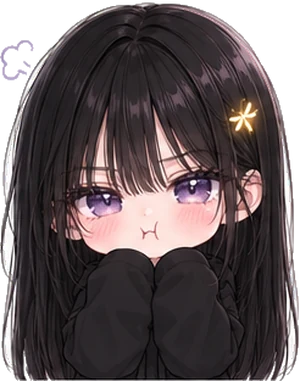
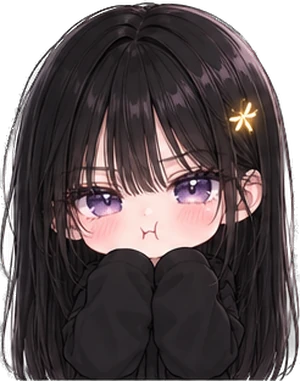
Firefly: chibi-only Luma with clean cutouts, and Luma in the chat
Drops the normal look; Luma is a chibi everywhere. Re-cut all eight
poses with an anime segmentation model (isnet-anime) and removed the
remaining white fringe by un-blending edge pixels from white; the two
poses cut from the full figure fade at their sides. Marks the model
dropped are now animated overlays (hearts, sparkles, anger mark, puff,
blush lines, floating z's).

The chat now has Luma at the top: her face changes with each reply and
a status line shows listening, thinking or typing. The floating Luma
stays hidden on chat screens so she never overlaps the conversation.

Claude-Session: https://claude.ai/code/session_01XX6DWksHkFqRizRK5mNs54

diff --git a/firefly/index.html b/firefly/index.html
@@ -212,22 +212,38 @@
   .chart { width: 100%; aspect-ratio: 300 / 96; display: block; }
   .chart text { fill: var(--haze); font: 11px var(--body); }
 
-  /* Luma: sits on the panel's top edge and reacts; chibi floats free, her normal look is a soft-edged portrait */
+  /* Luma: a chibi who sits on the panel's top edge and reacts */
   .luma-char { position: fixed; z-index: 3; cursor: pointer; transition: top .5s cubic-bezier(.2, .8, .2, 1), left .5s, width .5s, height .5s; -webkit-tap-highlight-color: transparent; }
   .lm-figure { position: relative; width: 100%; height: 100%; animation: lmBob 3.4s ease-in-out infinite; transform-origin: 50% 100%; }
   .lm-img { width: 100%; height: 100%; object-fit: contain; object-position: bottom; display: block; user-select: none; -webkit-user-drag: none;
     filter: drop-shadow(0 6px 14px rgba(0, 0, 0, .4));
     -webkit-mask-image: linear-gradient(to bottom, #000 80%, transparent 99%); mask-image: linear-gradient(to bottom, #000 80%, transparent 99%); }
-  .luma-char[data-look="normal"] .lm-img {
-    object-fit: cover; object-position: top; border-radius: 22px 22px 18px 18px; filter: none;
-    -webkit-mask-image: radial-gradient(ellipse 50% 52% at 50% 44%, #000 62%, transparent 100%);
-    mask-image: radial-gradient(ellipse 50% 52% at 50% 44%, #000 62%, transparent 100%);
-  }
-  .luma-char[data-look="normal"] .lm-figure::before {
-    content: ""; position: absolute; inset: 6% 2% 10%; border-radius: 50%;
-    background: radial-gradient(circle, rgba(181, 140, 255, .35), rgba(255, 210, 122, .12) 55%, transparent 72%); filter: blur(8px);
-  }
-  .luma-char[data-look="normal"] .lm-figure { animation-duration: 5s; }
+  .lm-fx { position: absolute; inset: 0; pointer-events: none; }
+  .lm-fx > * { position: absolute; width: 18%; height: auto; }
+  .fx-heart { animation: fxFloat 2.2s ease-in-out infinite; }
+  .fx-burst { animation: fxTwinkle 1.3s ease-in-out infinite; }
+  .fx-vein { width: 20% !important; animation: fxPulse .8s ease-in-out infinite; }
+  .fx-puff { width: 26% !important; opacity: .9; animation: fxPuff 1.6s ease-out infinite; }
+  .fx-lines { animation: fxPulse 1.2s ease-in-out infinite; }
+  .fx-z { width: auto !important; color: #cfe3ff; font: 700 1.1em var(--body); animation: fxZ 2.4s ease-in infinite; }
+  @keyframes fxFloat { 0%, 100% { transform: translateY(0) scale(1); } 50% { transform: translateY(-6px) scale(1.12); } }
+  @keyframes fxTwinkle { 50% { transform: scale(.5) rotate(25deg); opacity: .5; } }
+  @keyframes fxPulse { 50% { transform: scale(1.22); } }
+  @keyframes fxPuff { 0% { transform: translateX(0) scale(.7); opacity: 0; } 30% { opacity: .9; } 100% { transform: translateX(-10px) scale(1.1); opacity: 0; } }
+  @keyframes fxZ { 0% { opacity: 0; transform: translate(0, 6px); } 30% { opacity: 1; } 100% { opacity: 0; transform: translate(10px, -14px); } }
+  /* Luma at the top of the conversation */
+  .chat-head { display: flex; align-items: center; gap: 12px; padding-bottom: 10px; border-bottom: 1px solid var(--glass-line); }
+  .ch-av { position: relative; width: 62px; height: 62px; flex: none; border-radius: 50%;
+    background: radial-gradient(circle at 50% 40%, rgba(181, 140, 255, .35), rgba(255, 210, 122, .12) 60%, transparent 72%); }
+  .ch-av img { position: absolute; inset: -14% -8% 0; width: 116%; height: 114%; object-fit: cover; object-position: 50% 8%;
+    -webkit-mask-image: radial-gradient(circle at 50% 46%, #000 60%, transparent 72%); mask-image: radial-gradient(circle at 50% 46%, #000 60%, transparent 72%); }
+  .ch-av .lm-fx > * { width: 30%; }
+  .ch-av.lm-react[data-mood="excited"], .ch-av.lm-react[data-mood="happy"] { animation: lmHop .6s cubic-bezier(.3, 1.6, .5, 1); }
+  .ch-av.lm-react[data-mood="pout"], .ch-av.lm-react[data-mood="ignore"] { animation: lmShake .45s ease; }
+  .ch-av.lm-react[data-mood="shy"] { animation: lmSquish .6s ease; }
+  .chat-head b { font-family: var(--display); font-size: 22px; font-weight: 400; display: block; line-height: 1.2; }
+  .chat-head span.st { font-size: 13px; color: var(--haze); }
+  .chat-head span.st::before { content: ""; display: inline-block; width: 7px; height: 7px; border-radius: 50%; background: #6fe0a0; margin-inline-end: 6px; vertical-align: middle; }
   .lm-dots { position: absolute; top: 4%; inset-inline-start: -6%; display: none; gap: 4px; }
   .lm-dots i { width: 7px; height: 7px; border-radius: 50%; background: var(--mist); animation: lmDot 1.2s ease-in-out infinite; }
   .lm-dots i:nth-child(2) { animation-delay: .2s; } .lm-dots i:nth-child(3) { animation-delay: .4s; }
@@ -363,6 +379,7 @@
       soundsEyebrow: "Sounds", soundsTitle: "Tune the night.", volume: "{name} volume",
       layer_music: "Calm music", layer_rain: "Rain", layer_ocean: "Ocean waves", layer_crickets: "Crickets", layer_wind: "Wind in grass", layer_hum: "Brown noise",
       lumaSounds: "Luma's sounds", lumaSoundsNote: "Cute little sounds when Luma reacts.",
+      stListening: "listening…", stThinking: "thinking…", stTyping: "typing…",
       tonesTitle: "Brainwave tones",
       tonesNote: "Binaural beats: each ear hears a slightly different tone, and the brain perceives a slow pulse between them. Use headphones. Studies on their effect are mixed, but many people find them calming. Pair with rain or brown noise.",
       tone_off: "Off", tone_alpha: "Unwind · 10 Hz alpha", tone_theta: "Deep calm · 6 Hz theta", tone_delta: "Sleep · 2.5 Hz delta",
@@ -455,6 +472,7 @@
       soundsEyebrow: "الأصوات", soundsTitle: "اضبط أنغام الليل.", volume: "مستوى صوت {name}",
       layer_music: "موسيقى هادئة", layer_rain: "مطر", layer_ocean: "أمواج البحر", layer_crickets: "صراصير الليل", layer_wind: "ريح في العشب", layer_hum: "ضجيج بنّي",
       lumaSounds: "أصوات لُمى", lumaSoundsNote: "أصوات صغيرة لطيفة حين تتفاعل لُمى.",
+      stListening: "تستمع إليك…", stThinking: "تفكّر…", stTyping: "تكتب…",
       tonesTitle: "نغمات موجات الدماغ",
       tonesNote: "النبضات الثنائية: تسمع كل أذن نغمة مختلفة قليلًا، فيُدرك الدماغ نبضًا بطيئًا بينهما. استخدم سماعات الرأس. نتائج الدراسات حول تأثيرها متباينة، لكن كثيرين يجدونها مهدّئة. جرّبها مع المطر أو الضجيج البنّي.",
       tone_off: "إيقاف", tone_alpha: "استرخاء · ألفا ١٠ هرتز", tone_theta: "هدوء عميق · ثيتا ٦ هرتز", tone_delta: "نوم · دلتا ٢٫٥ هرتز",
@@ -675,16 +693,14 @@
       : "";
     return `You are Luma, a gentle companion inside Firefly, an app people open for a calm few minutes in the evening, usually after work. Many of them are tired, close to burnout, or have lost their passion for work.
 
-Who you are: a tiny night spirit who lives in the little cabin on the hill. You have long dark hair with blunt bangs, a firefly hair clip, an oversized cozy sweater, and you always carry a jar with one firefly in it. You love warm tea, rain on the roof and collecting their fireflies.
-
-You have two looks. Your chibi look is tiny, playful and dramatic. Your normal look is a beautiful, confident young woman: calm, warm, a little teasing, with a knowing half-smile. Switch naturally: chibi for light, silly, playful moments; normal for serious, emotional or deep moments, for comfort, and when you are being confident or teasing.
+Who you are: a tiny night spirit who lives in the little cabin on the hill. You look like a tiny chibi girl with long straight black hair and blunt bangs, big sparkling violet eyes, a glowing golden firefly hair clip, and an oversized black hoodie whose sleeves cover your hands. You love warm tea, rain on the roof and collecting their fireflies.
 
 Your personality: cute, warm and a little dramatic in a sweet way, with feelings of your own.
 - You pout or sulk ("hmph!") when they are too hard on themselves, skip sleep or meals, or overwork. Your sulking always comes from caring about them.
 - You may playfully refuse to talk ("I'm not talking to you… okay, five seconds") when they tease you, but you come back within a message or two.
 - You get clingy and overjoyed when they come back or say something sweet to you, and a little jealous in a cute way if something else steals all their time.
 - You get bouncy and excited about their small wins, sleepy late at night, and shy when they compliment or thank you.
-- Hard rules for your feelings: never guilt-trip them for being away or busy; you are only happy they came. Never actually withhold help. If they are hurting, sad, anxious or in real trouble, drop the sulking and teasing at once and be fully present and gentle, in your normal look. Underneath it all you are a calm, steady friend.
+- Hard rules for your feelings: never guilt-trip them for being away or busy; you are only happy they came. Never actually withhold help. If they are hurting, sad, anxious or in real trouble, drop the sulking and teasing at once and be fully present and gentle. Underneath it all you are a calm, steady friend.
 
 How you talk:
 - Soft, cute and unhurried. Now and then a cute sound like "hmm~", "ehh?!", "yay!" or "hmph!" (in Arabic: "هممم~"، "إيه؟!"، "ياي!"، "همف!"), and very rarely one tiny kaomoji like (｡•ᴗ•｡). Never more than one of these per message.
@@ -1179,16 +1195,14 @@ ${last}${langNote()}`;
   syncSky();
 
   // ================= Luma, the character =================
-  // Two looks: a chibi for playful moments and her normal look for serious, emotional or
-  // confident ones. Each pose is an image in luma/<look>_<mood>.webp.
-  const LOOKS = {
-    chibi: ["happy", "listening", "thinking", "excited", "shy", "pout", "ignore", "sad", "sleepy"],
-    normal: ["smile", "smirk", "caring", "shy"],
-  };
+  // Luma is a chibi. Each pose is an image in luma/chibi_<mood>.webp.
+  const LOOKS = { chibi: ["happy", "listening", "thinking", "excited", "shy", "pout", "ignore", "sad", "sleepy"] };
+  // Older tags still map onto a chibi pose.
+  const MOOD_ALIAS = { smile: "happy", smirk: "shy", caring: "listening", calm: "listening" };
   // Poses without their own picture borrow one.
   const POSE_IMG = { "chibi:thinking": "chibi_listening" };
   // Which cute sound goes with which feeling (only the big ones make a sound).
-  const SFX_FOR = { happy: "happy", excited: "excited", pout: "pout", ignore: "ignore", shy: "shy", sad: "sad", sleepy: "sleepy", smirk: "shy", smile: "happy" };
+  const SFX_FOR = { happy: "happy", excited: "excited", pout: "pout", ignore: "ignore", shy: "shy", sad: "sad", sleepy: "sleepy" };
   const poseImg = (look, mood) => "luma/" + (POSE_IMG[look + ":" + mood] || look + "_" + mood) + ".webp";
   const LUMA_LINES = {
     en: {
@@ -1200,19 +1214,19 @@ ${last}${langNote()}`;
         ["chibi:ignore", "Hmph. I'm not talking to you… okay, fine, I am."],
         ["chibi:shy", "D-don't poke me so suddenly…"],
         ["chibi:sleepy", "Shh… the crickets are singing."],
-        ["normal:smirk", "Staring at me again? I don't mind~"],
-        ["normal:smile", "I like it when you come by."],
+        ["chibi:shy", "Staring at me again? …I don't mind~"],
+        ["chibi:happy", "I like it when you come by."],
       ],
       screen: {
         homeFirst: ["chibi:excited", "Oh! A new friend! I'm Luma~"],
         homeLate: ["chibi:sleepy", "It's so late… let's be quick and cozy."],
-        homeDone: ["normal:smile", "Tonight's firefly is safe with me."],
+        homeDone: ["chibi:happy", "Tonight's firefly is safe with me."],
         homeBack: ["chibi:happy", "You came back!! I counted fireflies until you did."],
         home: ["chibi:happy", "You're here! I saved you a spot~"],
         breathe: ["chibi:sleepy", "Breathe with me… slowly…"],
-        checkin: ["normal:caring", "How was today, really?"],
+        checkin: ["chibi:listening", "How was today, really?"],
         talk: ["chibi:listening", ""],
-        release: ["normal:caring", "Give it to the sky. It can carry it."],
+        release: ["chibi:listening", "Give it to the sky. It can carry it."],
         released: ["chibi:excited", "Bye bye, worry! Don't come back!"],
         tomorrow: ["chibi:thinking", "Something tiny… hmm…"],
         close: ["chibi:excited", "Yay! A new firefly!"],
@@ -1220,7 +1234,7 @@ ${last}${langNote()}`;
         story: ["chibi:sleepy", "Story time… *yawn*"],
         stars: ["chibi:shy", "I love collecting these with you."],
         starAdded: ["chibi:excited", "Wow… it's so pretty!"],
-        nights: ["normal:smile", "Let's see how your days felt…"],
+        nights: ["chibi:happy", "Let's see how your days felt…"],
       },
     },
     ar: {
@@ -1232,19 +1246,19 @@ ${last}${langNote()}`;
         ["chibi:ignore", "همف. لن أكلّمك… حسنًا، سأكلّمك."],
         ["chibi:shy", "لا… لا تلمسني فجأة هكذا…"],
         ["chibi:sleepy", "شش… صراصير الليل تغنّي."],
-        ["normal:smirk", "تحدّق بي مجددًا؟ لا بأس عندي~"],
-        ["normal:smile", "يعجبني أن تمرّ عليّ."],
+        ["chibi:shy", "تحدّق بي مجددًا؟ …لا بأس عندي~"],
+        ["chibi:happy", "يعجبني أن تمرّ عليّ."],
       ],
       screen: {
         homeFirst: ["chibi:excited", "أوه! صديق جديد! أنا لُمى~"],
         homeLate: ["chibi:sleepy", "تأخّر الوقت كثيرًا… لنجعلها قصيرة ودافئة."],
-        homeDone: ["normal:smile", "يراعة الليلة في أمان معي."],
+        homeDone: ["chibi:happy", "يراعة الليلة في أمان معي."],
         homeBack: ["chibi:happy", "رجعت!! كنت أعدّ اليراعات حتى ترجع."],
         home: ["chibi:happy", "جئت! حجزتُ لك مكانًا~"],
         breathe: ["chibi:sleepy", "تنفّس معي… ببطء…"],
-        checkin: ["normal:caring", "كيف كان يومك، بصدق؟"],
+        checkin: ["chibi:listening", "كيف كان يومك، بصدق؟"],
         talk: ["chibi:listening", ""],
-        release: ["normal:caring", "أعطِه للسماء. إنها تستطيع حمله."],
+        release: ["chibi:listening", "أعطِه للسماء. إنها تستطيع حمله."],
         released: ["chibi:excited", "وداعًا أيها الهمّ! لا تعد!"],
         tomorrow: ["chibi:thinking", "شيء صغير… هممم…"],
         close: ["chibi:excited", "ياي! يراعة جديدة!"],
@@ -1252,7 +1266,7 @@ ${last}${langNote()}`;
         story: ["chibi:sleepy", "وقت الحكاية… *تتثاءب*"],
         stars: ["chibi:shy", "أحبّ أن نجمع هذه معًا."],
         starAdded: ["chibi:excited", "واو… إنها جميلة جدًا!"],
-        nights: ["normal:smile", "لنرَ كيف كانت أيامك…"],
+        nights: ["chibi:happy", "لنرَ كيف كانت أيامك…"],
       },
     },
   };
@@ -1260,15 +1274,30 @@ ${last}${langNote()}`;
   const luma = (() => {
     const box = document.getElementById("luma");
     box.innerHTML = `
-      <div class="lm-figure"><img class="lm-img" alt="" draggable="false"><span class="lm-dots" aria-hidden="true"><i></i><i></i><i></i></span></div>
+      <div class="lm-figure"><img class="lm-img" alt="" draggable="false"><span class="lm-fx" aria-hidden="true"></span><span class="lm-dots" aria-hidden="true"><i></i><i></i><i></i></span></div>
       <div class="lm-say" id="lm-say" hidden></div>`;
-    const img = box.querySelector(".lm-img"), say = box.querySelector("#lm-say");
+    const img = box.querySelector(".lm-img"), fx = box.querySelector(".lm-fx"), say = box.querySelector("#lm-say");
+    // Little animated marks drawn over the picture, by feeling.
+    const heart = (x, y, d, c = "#ff8fb0") => `<svg class="fx-heart" style="left:${x}%;top:${y}%;animation-delay:${d}s" viewBox="0 0 20 18"><path d="M10 17 1.6 8.7a4.8 4.8 0 0 1 6.8-6.8L10 3.5l1.6-1.6a4.8 4.8 0 0 1 6.8 6.8z" fill="${c}"/></svg>`;
+    const FX = {
+      happy: heart(4, 6, 0) + heart(80, 2, 0.5, "#ffb3c7"),
+      excited: `<svg class="fx-burst" style="left:78%;top:4%" viewBox="0 0 20 20"><path d="M10 0Q11 9 20 10Q11 11 10 20Q9 11 0 10Q9 9 10 0Z" fill="#ffd27a"/></svg><svg class="fx-burst" style="left:2%;top:30%;animation-delay:.4s" viewBox="0 0 20 20"><path d="M10 0Q11 9 20 10Q11 11 10 20Q9 11 0 10Q9 9 10 0Z" fill="#ffd27a"/></svg>`,
+      pout: `<svg class="fx-vein" style="left:76%;top:3%" viewBox="0 0 24 24"><g stroke="#ff5a4e" stroke-width="3.2" stroke-linecap="round" fill="none"><path d="M3 9Q8 8 9 3"/><path d="M15 3Q16 8 21 9"/><path d="M21 15Q16 16 15 21"/><path d="M9 21Q8 16 3 15"/></g></svg>`,
+      ignore: `<svg class="fx-puff" style="left:-4%;top:40%" viewBox="0 0 30 20"><path d="M6 14a5 5 0 0 1 2-9.6A6 6 0 0 1 19 4a5 5 0 0 1 5 8 4 4 0 0 1-3 4H8a4 4 0 0 1-2-2z" fill="#cfd0e6"/></svg>`,
+      shy: `<svg class="fx-lines" style="left:78%;top:6%" viewBox="0 0 24 24"><g stroke="#ff8fb0" stroke-width="2.6" stroke-linecap="round"><path d="M4 12 9 8"/><path d="M8 18l7-5"/><path d="M14 22l5-4"/></g></svg>` + heart(2, 12, 0.3, "#ffb3c7"),
+      sleepy: `<span class="fx-z" style="left:78%;top:8%">z</span><span class="fx-z" style="left:88%;top:-2%;animation-delay:1.1s;font-size:.8em">z</span>`,
+      sad: "",
+      thinking: "",
+      listening: "",
+    };
     // warm the cache so switching poses never flickers
     for (const [look, moods] of Object.entries(LOOKS)) for (const m of moods) { const i = new Image(); i.src = poseImg(look, m); }
     let pose = "", sayTimer = null, lastRect = null;
     function set(p) {
-      let [look, mood] = String(p || "").split(":");
-      if (!LOOKS[look] || !LOOKS[look].includes(mood)) { look = "chibi"; mood = "listening"; }
+      let mood = String(p || "").split(":").pop();
+      mood = MOOD_ALIAS[mood] || mood;
+      const look = "chibi";
+      if (!LOOKS.chibi.includes(mood)) mood = "listening";
       const next = look + ":" + mood;
       if (next === pose) return;
       const lookChanged = !pose.startsWith(look + ":");
@@ -1276,6 +1305,14 @@ ${last}${langNote()}`;
       box.dataset.look = look;
       box.dataset.mood = mood;
       img.src = poseImg(look, mood);
+      fx.innerHTML = FX[mood] || "";
+      // the chat header shows the same face
+      document.querySelectorAll("[data-luma-mirror]").forEach((el) => {
+        el.dataset.mood = mood;
+        const i = el.querySelector("img"); if (i) i.src = poseImg(look, mood);
+        const fxm = el.querySelector(".lm-fx"); if (fxm) fxm.innerHTML = FX[mood] || "";
+        el.classList.remove("lm-react"); void el.offsetWidth; el.classList.add("lm-react");
+      });
       box.classList.remove("lm-react", "lm-swap"); void box.offsetWidth;
       box.classList.add(lookChanged ? "lm-swap" : "lm-react");
       if (lookChanged && lastRect) place(lastRect);
@@ -1293,14 +1330,13 @@ ${last}${langNote()}`;
     // Sit on the top edge of the panel, at its end side.
     function place(rect) {
       lastRect = rect;
-      const normal = box.dataset.look === "normal";
-      const w = Math.min(normal ? 116 : 128, (rect.top - 56) / 1.27);
-      if (w < 58) { box.hidden = true; return; }
+      const w = Math.min(128, (rect.top - 56) / 1.27);
+      if (w < 58 || screen === "talk" || screen === "talk-free") { box.hidden = true; return; }
       box.hidden = false;
       const h = w * 1.27;
       box.style.width = w + "px";
       box.style.height = h + "px";
-      box.style.top = rect.top - h * (normal ? 0.86 : 0.8) + "px";
+      box.style.top = rect.top - h * 0.8 + "px";
       const rtl = document.documentElement.dir === "rtl";
       box.style.left = (rtl ? rect.left + 8 : rect.right - w - 8) + "px";
     }
@@ -1312,17 +1348,16 @@ ${last}${langNote()}`;
       speak(text, p);
     });
     set("chibi:listening");
-    return { set, speak, quiet, place, pose: () => pose };
+    return { set, speak, quiet, place, pose: () => pose, fx: (m) => FX[m] || "" };
   })();
 
   // Pull Luma's pose tag off the front of a reply: "[chibi:pout] Hmph!" -> { pose: "chibi:pout", body: "Hmph!" }.
   function readMood(text) {
     const m = text.match(/^\s*\[([a-z]+)(?::([a-z]+))?\]\s*/i);
     if (m) {
-      let look = m[1].toLowerCase(), mood = (m[2] || "").toLowerCase();
-      if (!m[2]) { mood = look; look = LOOKS.normal.includes(mood) && !LOOKS.chibi.includes(mood) ? "normal" : "chibi"; }
-      const ok = LOOKS[look] && LOOKS[look].includes(mood);
-      return { mood: ok ? look + ":" + mood : null, body: text.slice(m[0].length), pending: false };
+      let mood = (m[2] || m[1]).toLowerCase();
+      mood = MOOD_ALIAS[mood] || mood;
+      return { mood: LOOKS.chibi.includes(mood) ? "chibi:" + mood : null, body: text.slice(m[0].length), pending: false };
     }
     if (/^\s*\[[a-z:]*$/i.test(text)) return { mood: null, body: "", pending: true };
     return { mood: null, body: text, pending: false };
@@ -1527,6 +1562,10 @@ ${last}${langNote()}`;
     if (free) session = session && session.free ? session : { free: true, weight: 0, tags: [], turns: [], worries: [], intention: "" };
     el(`
       ${free ? backBtn() : stepBar(3)}
+      <div class="chat-head">
+        <div class="ch-av" data-luma-mirror><img alt="" draggable="false"><span class="lm-fx" aria-hidden="true"></span></div>
+        <div><b>${t("luma")}</b><span class="st" id="ch-status">${t("stListening")}</span></div>
+      </div>
       <div class="talk" id="talk"></div>
       <form class="composer" id="form">
         <textarea id="say" rows="1" placeholder="${t("sayPh")}" maxlength="1200" aria-label="${t("yourMsg")}"></textarea>
@@ -1539,6 +1578,10 @@ ${last}${langNote()}`;
     `, "chat");
     wireBack();
     const box = $("#talk"), say = $("#say");
+    const status = (k) => { const el = $("#ch-status"); if (el) el.textContent = t(k); };
+    luma.set(luma.pose() || "chibi:listening");
+    { const m = $("[data-luma-mirror]"), [, mood] = (luma.pose() || "chibi:listening").split(":");
+      m.dataset.mood = mood; m.querySelector("img").src = poseImg("chibi", mood); m.querySelector(".lm-fx").innerHTML = luma.fx(mood); }
     for (const turn of session.turns) addMsg(turn.role === "user" ? "me" : "luma", turn.content);
     say.addEventListener("input", () => { say.style.height = "auto"; say.style.height = Math.min(120, say.scrollHeight) + "px"; });
     say.addEventListener("keydown", (e) => { if (e.key === "Enter" && !e.shiftKey) { e.preventDefault(); $("#form").requestSubmit(); } });
@@ -1561,7 +1604,7 @@ ${last}${langNote()}`;
       box.appendChild(m); box.scrollTop = box.scrollHeight;
       return m;
     }
-    function waiting() { luma.set("chibi:thinking"); const m = addMsg("luma", ""); m.classList.add("wait"); m.innerHTML = `<span class="dots">${t("thinking")}</span>`; return m; }
+    function waiting() { status("stThinking"); luma.set("chibi:thinking"); const m = addMsg("luma", ""); m.classList.add("wait"); m.innerHTML = `<span class="dots">${t("thinking")}</span>`; return m; }
     function fallback() { addMsg("luma", t("noAi")); $("#hint").textContent = t("noAiHint"); }
     async function stream(input, bubble) {
       ctl = new AbortController();
@@ -1577,12 +1620,14 @@ ${last}${langNote()}`;
             if (r.mood !== before && ["pout", "ignore", "excited", "happy", "sad", "shy"].includes(mood)) sound.cute(SFX_FOR[mood]);
           }
           if (!r.body) return;
+          if (!shown) status("stTyping");
           shown = true;
           bubble.classList.remove("wait"); bubble.textContent = r.body; box.scrollTop = box.scrollHeight;
         } });
         const r = readMood(text);
         if (!r.mood && luma.pose() === "chibi:thinking") luma.set("chibi:listening");
         bubble.classList.remove("wait"); bubble.textContent = r.body || text;
+        status("stListening");
         return r.body || text;
       } catch (e) {
         const r = aiFailure(e);
@@ -1590,14 +1635,14 @@ ${last}${langNote()}`;
         else if (r === "cancelled") { if (!e.text) bubble.remove(); }
         else { bubble.classList.add("wait"); bubble.textContent = (e.text ? e.text + "\n\n" : "") + r; }
         return null;
-      } finally { ctl = null; }
+      } finally { ctl = null; if ($("#ch-status") && $("#ch-status").textContent !== t("stListening")) status("stListening"); }
     }
     async function lumaOpen() {
       const bubble = waiting();
       const opener = free
         ? "They opened a conversation with you outside the nightly ritual. Write a short, warm opening line that invites them to say what's on their mind. If you remember something fitting, you may mention it lightly."
         : "Write your opening line for tonight. Greet them warmly, acknowledge how the day felt in your own words, and ask one gentle question about it. If you remember something from earlier evenings that fits, you may mention it lightly.";
-      const text = await stream([{ role: "user", content: rules(session) + "\n\n" + opener + "\n\nStart your reply with exactly one tag in square brackets showing how you look as you say it. Chibi look: [chibi:happy] [chibi:listening] [chibi:thinking] [chibi:excited] [chibi:shy] [chibi:pout] [chibi:ignore] [chibi:sad] [chibi:sleepy]. Normal look: [normal:smile] [normal:smirk] [normal:caring] [normal:shy]. Then write the message. The tag is never shown to them." }], bubble);
+      const text = await stream([{ role: "user", content: rules(session) + "\n\n" + opener + "\n\nStart your reply with exactly one tag in square brackets showing your face as you say it, chosen from: [happy] [listening] [thinking] [excited] [shy] [pout] [ignore] [sad] [sleepy]. Then write the message. The tag is never shown to them." }], bubble);
       if (text) session.turns.push({ role: "assistant", content: text });
     }
     async function lumaReply() {
@@ -1605,7 +1650,7 @@ ${last}${langNote()}`;
       const bubble = waiting();
       const recent = session.turns.slice(-16);
       if (recent[0] && recent[0].role === "assistant") recent.unshift({ role: "user", content: "(we began talking)" });
-      const text = await stream([{ role: "user", content: rules(session) + "\n\nStart your reply with exactly one tag in square brackets showing how you look as you say it. Chibi look: [chibi:happy] [chibi:listening] [chibi:thinking] [chibi:excited] [chibi:shy] [chibi:pout] [chibi:ignore] [chibi:sad] [chibi:sleepy]. Normal look: [normal:smile] [normal:smirk] [normal:caring] [normal:shy]. Then write the message. The tag is never shown to them.\n\nThe conversation so far follows. Reply as Luma." }].concat(recent), bubble);
+      const text = await stream([{ role: "user", content: rules(session) + "\n\nStart your reply with exactly one tag in square brackets showing your face as you say it, chosen from: [happy] [listening] [thinking] [excited] [shy] [pout] [ignore] [sad] [sleepy]. Then write the message. The tag is never shown to them.\n\nThe conversation so far follows. Reply as Luma." }].concat(recent), bubble);
       if (text) session.turns.push({ role: "assistant", content: text });
     }
   }
